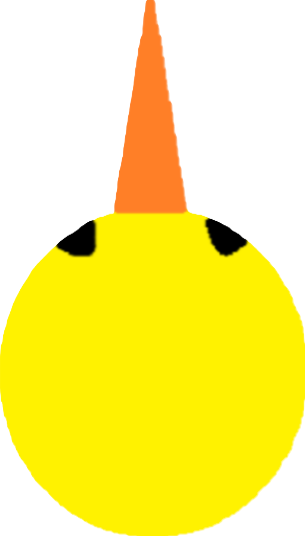
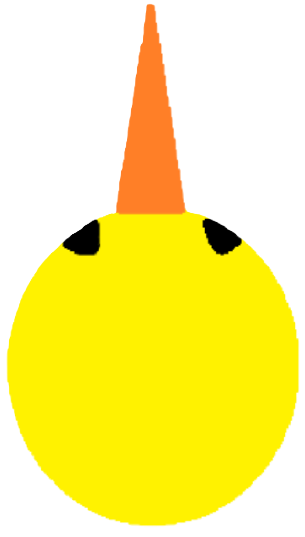
m

diff --git a/Level 3.html b/Level 3.html
@@ -36,7 +36,7 @@
 		<img class="porte" id="porte5" style="position: absolute" src="porte5.png" width="21" height="278"></img>
 		<img id="porte6" style="position: absolute" src="porte6.png" width="119" height="235"></img>
 
-		<img id="piou" style="position: absolute" src="piou haut sud.png" width="160" height="160"></img> 
+		<img id="piou" style="position: absolute" src="piou haut sud.png" width="110" height="160"></img> 
 
 		<img class="image" id="BDF1" style="position: absolute" src="BDF1.png" width="80" height="80"></img>
 			
